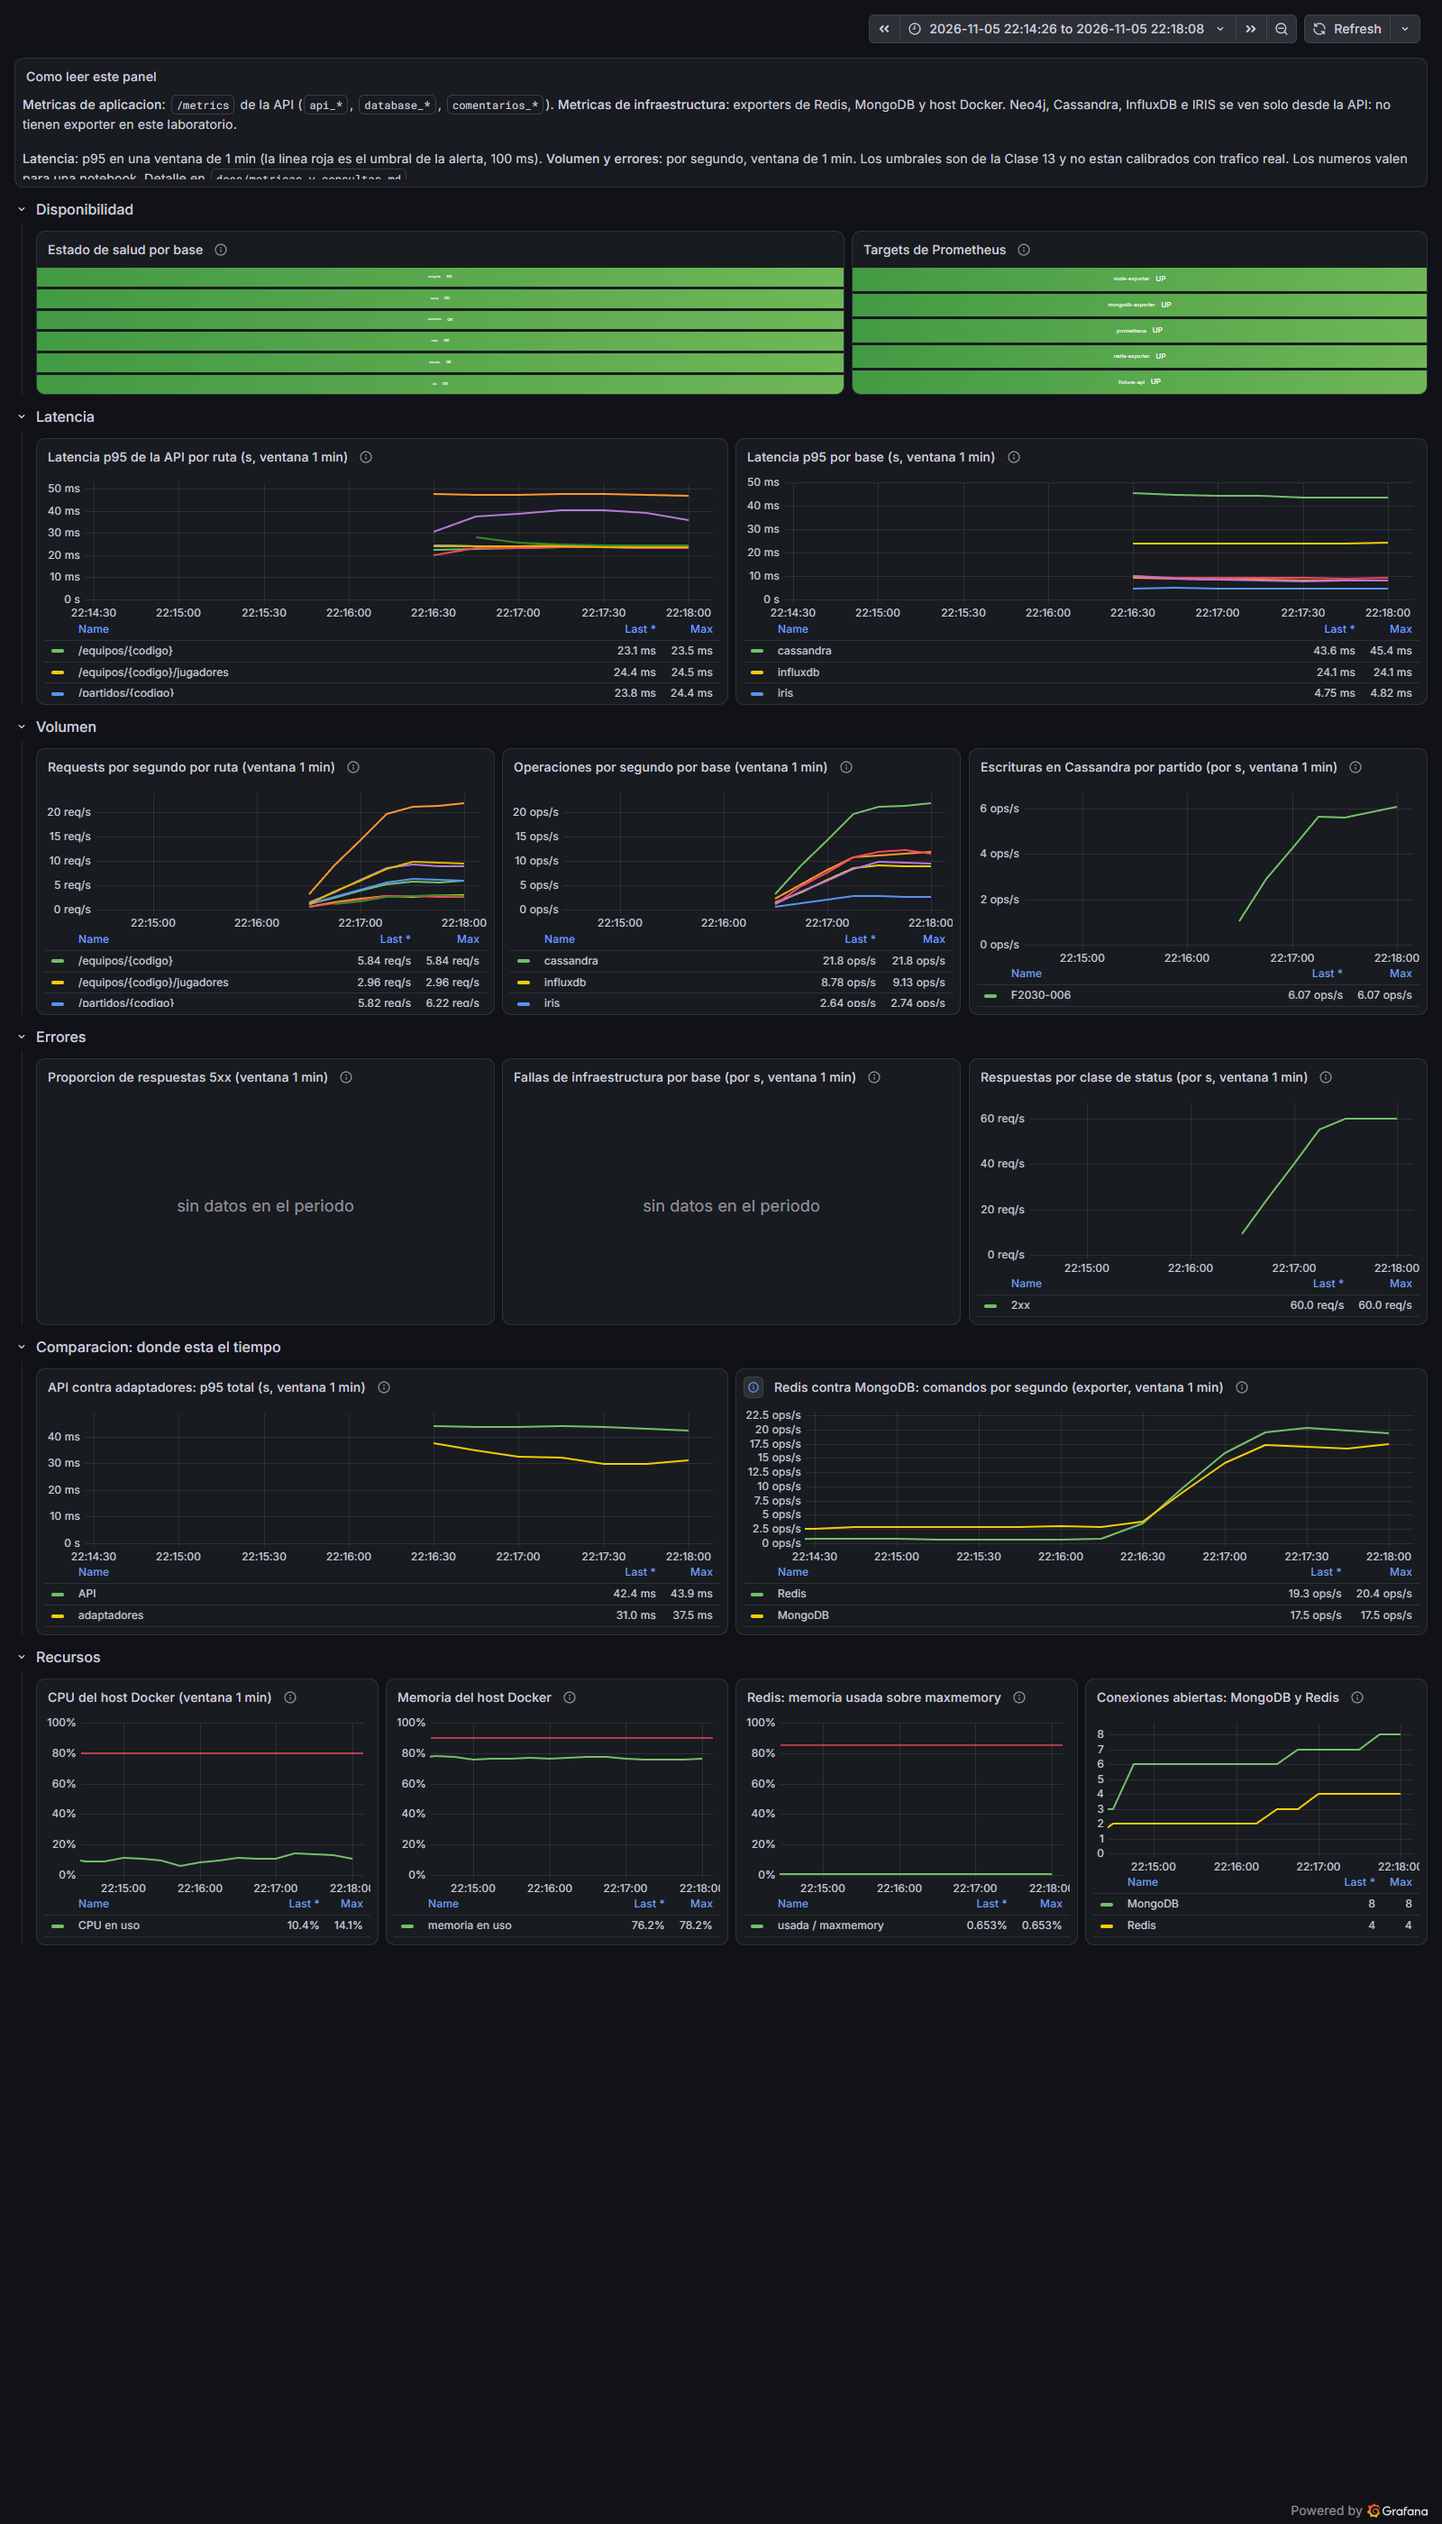
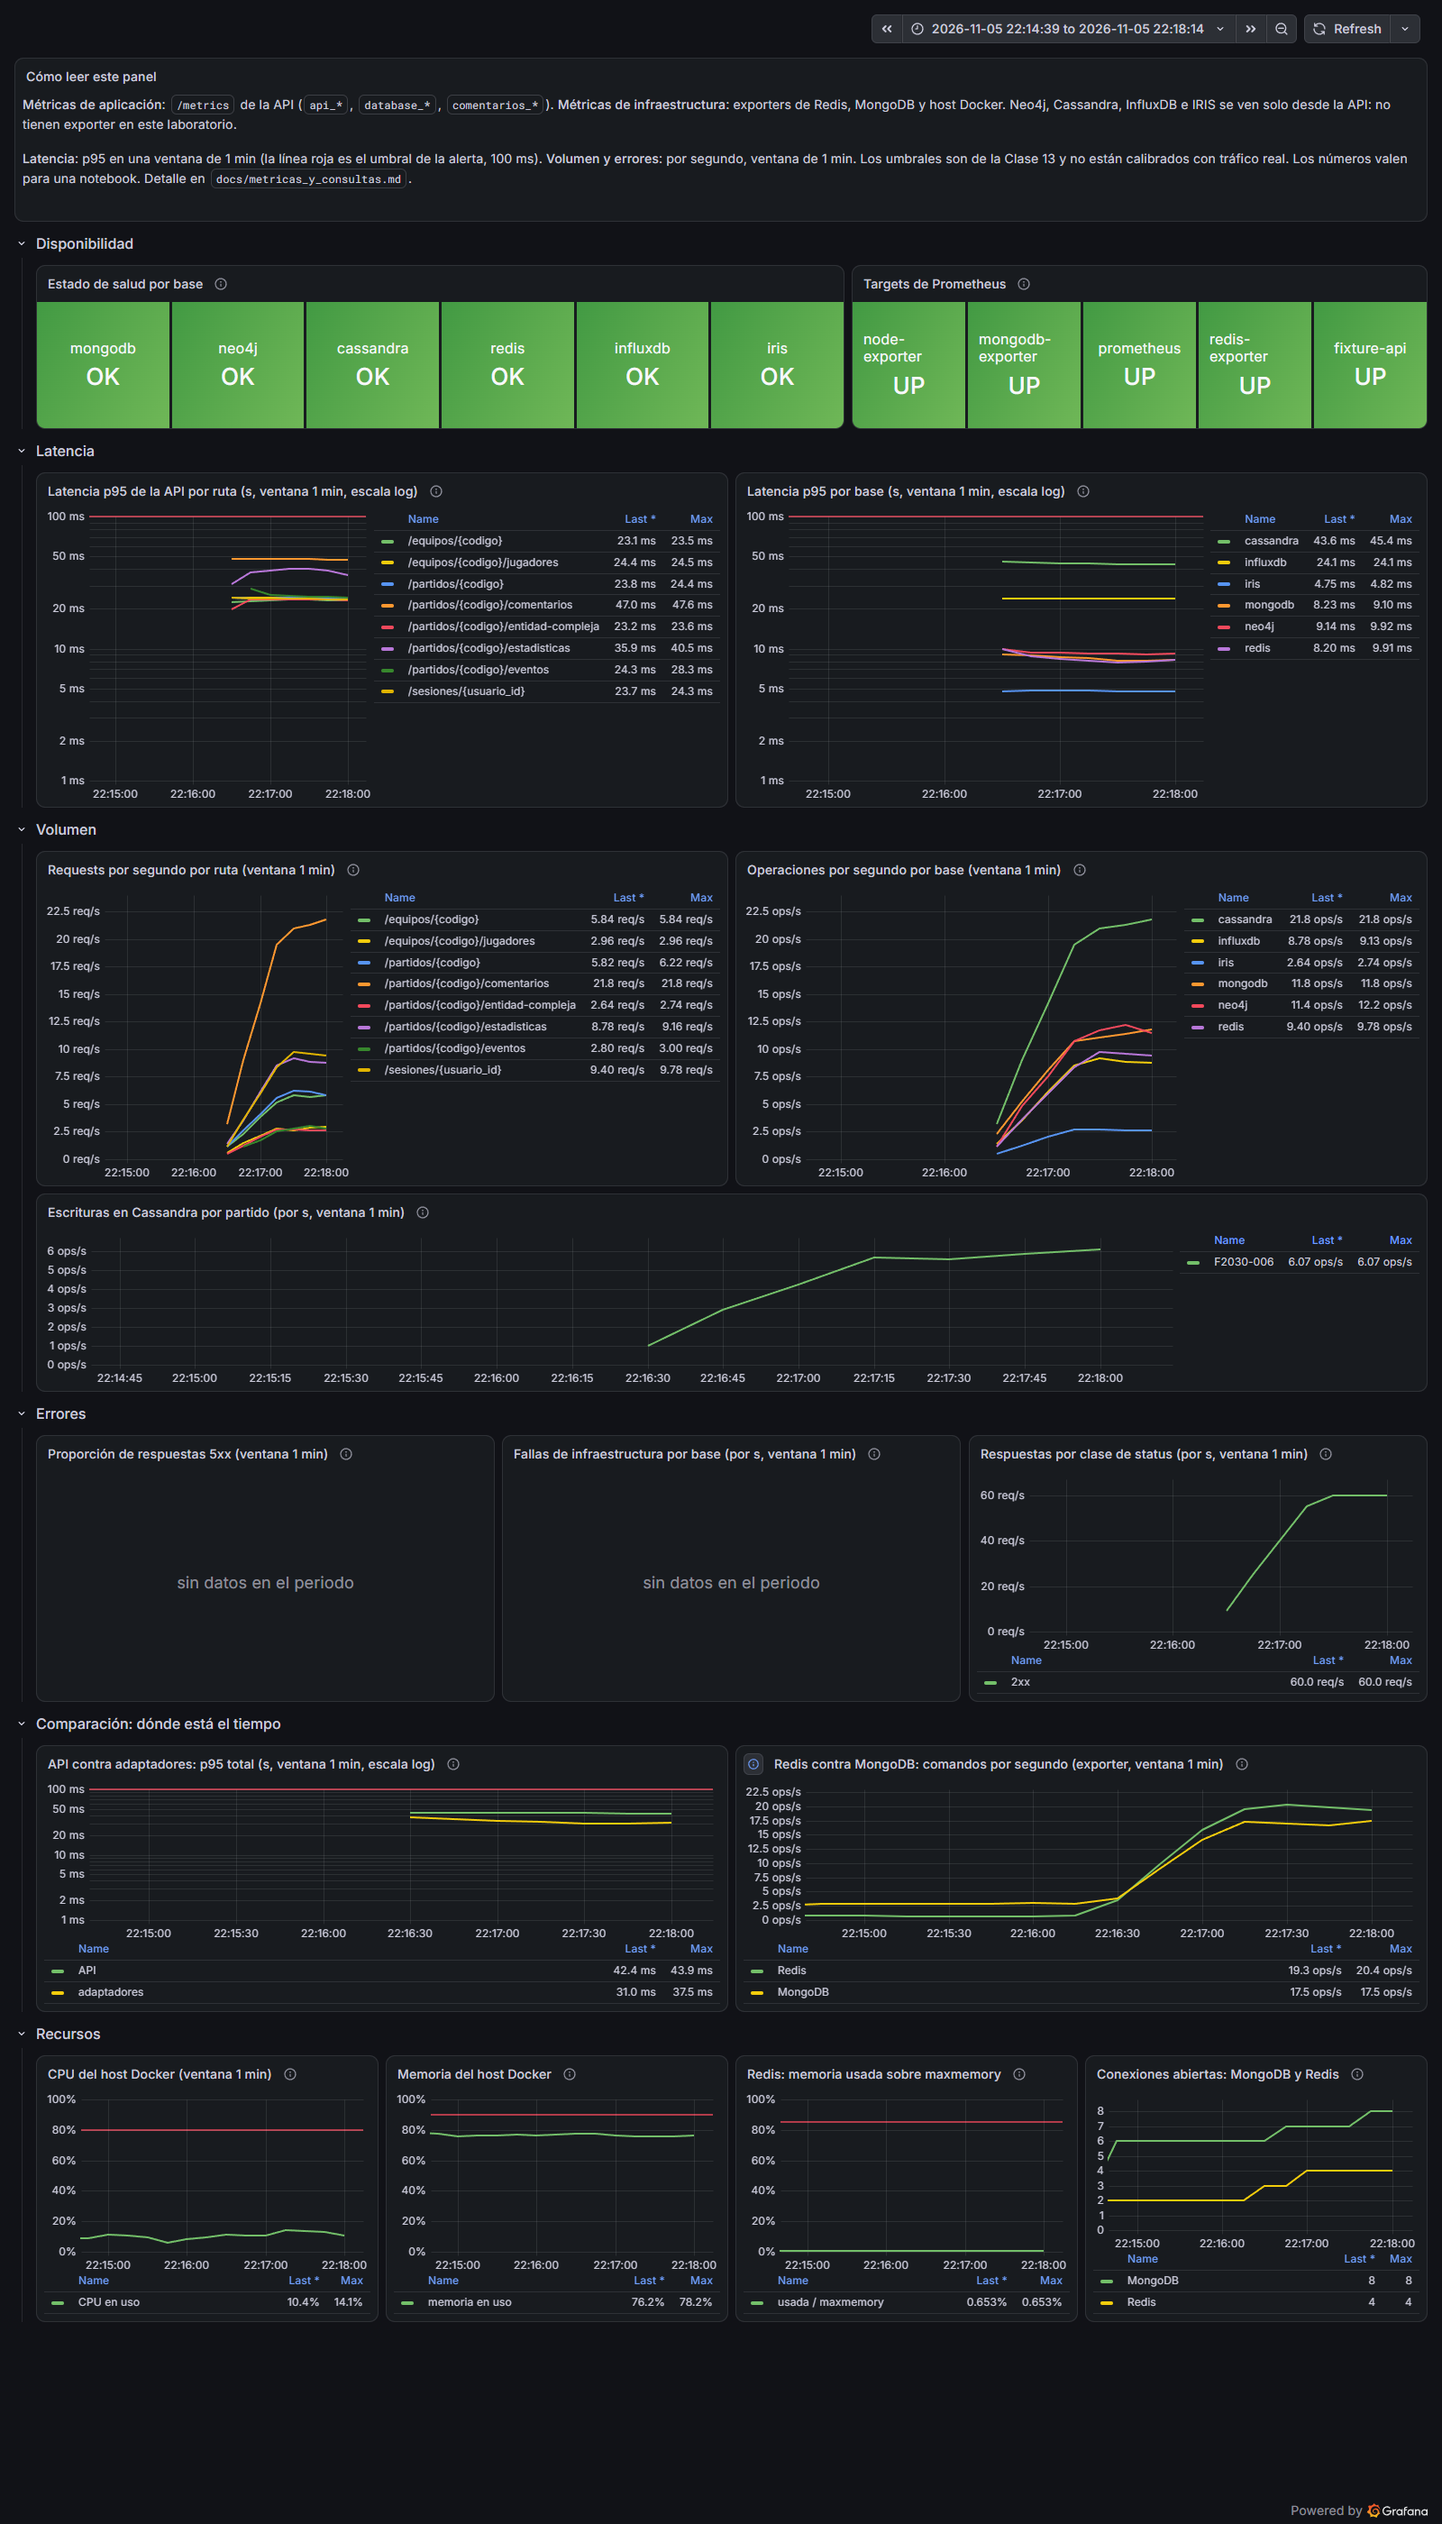
Hito 13: capturas con el dashboard corregido

diff --git a/fixture2030-hito-13-monitoreo/scripts/recapturar.py b/fixture2030-hito-13-monitoreo/scripts/recapturar.py
@@ -1,0 +1,57 @@
+# -*- coding: utf-8 -*-
+"""Hito 13 - Vuelve a sacar las capturas de Grafana de la ultima corrida, sin repetirla.
+
+    python scripts/recapturar.py
+
+Prometheus conserva las metricas: con los rangos de carga.json y prueba_de_falla.json, el
+dashboard muestra exactamente esos momentos. Primero confirma que Grafana tenga cargada la
+version del dashboard de este repositorio; si no, no saca nada.
+"""
+
+import json
+import sys
+import time
+
+import httpx
+
+from capturar import capturar, password_grafana
+from comun import EVIDENCIA, GRAFANA, HITO13
+
+
+def dashboard_al_dia() -> bool:
+    esperado = json.loads((HITO13 / "grafana" / "dashboards" / "fixture2030.json").read_text(encoding="utf-8"))
+    titulos = {p["title"] for p in esperado["panels"]}
+    try:
+        r = httpx.get(f"{GRAFANA}/api/dashboards/uid/fixture2030", auth=("admin", password_grafana()), timeout=10)
+        return r.status_code == 200 and titulos == {p["title"] for p in r.json()["dashboard"]["panels"]}
+    except (httpx.HTTPError, ValueError, KeyError):
+        return False
+
+
+def main() -> int:
+    print("Esperando que Grafana cargue el dashboard del repositorio (hasta 2 min)...")
+    for _ in range(24):
+        if dashboard_al_dia():
+            break
+        time.sleep(5)
+    else:
+        print("ATENCION: Grafana sigue con otra version del dashboard. No se sacan capturas.")
+        return 1
+
+    carga = json.loads((EVIDENCIA / "resultados_sin_secretos" / "carga.json").read_text(encoding="utf-8"))
+    falla = json.loads((EVIDENCIA / "prueba_de_falla.json").read_text(encoding="utf-8"))
+    ms = lambda t: int(t * 1000)
+    desde = carga["inicio"] - 90
+    rangos = {
+        "01_estado_normal": (desde, carga["inicio"] - 5),
+        "02_durante_carga": (desde, carga["inicio"] + 125),
+        "03_falla_redis": (desde, falla["t_falla"] + falla["alerta_firing_s"]),  # Redis todavia detenido
+        "04_recuperacion": (falla["inicio"], falla["fin"]),
+    }
+    resultados = [capturar(nombre, desde=ms(a), hasta=ms(b)) for nombre, (a, b) in rangos.items()]
+    print(f"Capturas logradas: {sum(resultados)} de {len(resultados)}")
+    return 0 if all(resultados) else 1
+
+
+if __name__ == "__main__":
+    sys.exit(main())
